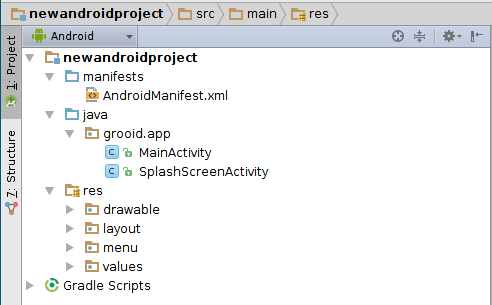
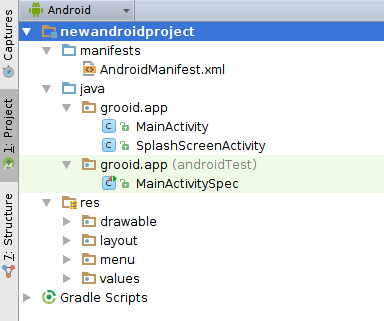
Added emerger plugin and Spock testing

Changed region(s): [[0.0, 0.0, 1.0, 1.0]]

diff --git a/index.html b/index.html
@@ -25,11 +25,12 @@
 <li><a href="#_introduction">1. Introduction</a></li>
 <li><a href="#_install_grooid_templates">2. Install Grooid Templates</a></li>
 <li><a href="#_create_your_first_project">3. Create your first project</a></li>
-<li><a href="#_technologies_included">4. Technologies included</a></li>
-<li><a href="#_android_studio_versions">5. Android Studio versions</a>
+<li><a href="#_create_a_library_module">4. Create a library module</a></li>
+<li><a href="#_technologies_included">5. Technologies included</a></li>
+<li><a href="#_android_studio_versions">6. Android Studio versions</a>
 <ul class="sectlevel2">
-<li><a href="#_android_studio_0_8_x">5.1. Android Studio 0.8.x</a></li>
-<li><a href="#_android_studio_1_x">5.2. Android Studio 1.x</a></li>
+<li><a href="#_android_studio_0_8_x">6.1. Android Studio 0.8.x</a></li>
+<li><a href="#_android_studio_1_x">6.2. Android Studio 1.x</a></li>
 </ul>
 </li>
 </ul>
@@ -103,7 +104,8 @@ with:</p>
 <pre class="prettyprint highlight"><code class="language-shell" data-lang="shell">$ lazybones list
 Available templates in marioggar/grooid-templates:
 
-marioggar/grooid-new-project</code></pre>
+marioggar/grooid-new-project
+marioggar/grooid-new-library</code></pre>
 </div>
 </div>
 <div class="paragraph">
@@ -113,18 +115,22 @@ marioggar/grooid-new-project</code></pre>
 <div class="content">
 <pre class="prettyprint highlight"><code class="language-shell" data-lang="shell">$ lazybones create grooid-new-project newandroidproject
 
-Creating project from template grooid-new-project (latest) in 'newandroidproject'
-Define value for default package [grooid.app]:
-Which is the minimum version of sdk you want to target ? [19]:
-Which is the main version of SDK you are targeting ? [21]:
-Which version of Android Build Tools do you want to use ? [20.0.0]:
+Creating project from template grooid-new-project 1.1.4 in 'newandroidproject'
+DEFAULT source code package ? [grooid.app]:
+MIN version of SDK you want to target ? [19]:
+MAX version of SDK you want to target ? [21]:
+DEFAULT version for Android Build Tools ? [22.0.1]:
+DEFAULT version for Android support v4 ? [21.0.0]:
 
 What is newandroidproject
 --------------------------------------
 
 You've just created a basic Android-Groovy application. It provides a standard project structure and
 a basic Gradle plugin. Now is up to you to add your source files and edit them with Android Studio
-and have fun :)</code></pre>
+and have fun :)
+
+
+Project created in newandroidproject!</code></pre>
 </div>
 </div>
 <div class="admonitionblock warning">
@@ -173,24 +179,78 @@ build the project.</p>
 </div>
 </div>
 <div class="sect1">
-<h2 id="_technologies_included">4. Technologies included</h2>
+<h2 id="_create_a_library_module">4. Create a library module</h2>
 <div class="sectionbody">
 <div class="paragraph">
-<p>The project you&#8217;ve just created has some useful technologies in order not to
-start from nothing.</p>
+<p>If you want to create an Android library then you should use the
+<code>create-new-library</code> template:</p>
+</div>
+<div class="listingblock">
+<div class="content">
+<pre class="prettyprint highlight"><code class="language-shell" data-lang="shell">$ lazybones create grooid-new-library newandroidproject
+
+Creating project from template grooid-new-project 1.1.4 in 'newandroidproject'
+DEFAULT source code package ? [grooid.app]:
+MIN version of SDK you want to target ? [19]:
+MAX version of SDK you want to target ? [21]:
+DEFAULT version for Android Build Tools ? [22.0.1]:
+DEFAULT version for Android support v4 ? [21.0.0]:
+...</code></pre>
+</div>
+</div>
+<div class="paragraph">
+<p>Then follow the same instructions than in previous chaper to import
+your project to Android Studio.</p>
+</div>
+</div>
+</div>
+<div class="sect1">
+<h2 id="_technologies_included">5. Technologies included</h2>
+<div class="sectionbody">
+<div class="paragraph">
+<p>The project you&#8217;ve just created has some useful dependencies in order not to
+start from scratch.</p>
 </div>
 <div class="ulist">
 <ul>
 <li>
-<p><strong>Swissknife</strong> (<a href="https://github.com/Arasthel/SwissKnife" class="bare">https://github.com/Arasthel/SwissKnife</a>) : A multi-purpose library containing view injection and threading for Android using annotations</p>
-</li>
-<li>
-<p><strong>Retrofit</strong> (<a href="http://square.github.io/retrofit/" class="bare">http://square.github.io/retrofit/</a>) : A type-safe REST client for Android and Java</p>
-</li>
-<li>
-<p><strong>Picasso</strong> (<a href="http://square.github.io/picasso/" class="bare">http://square.github.io/picasso/</a>) : A powerful image downloading and caching library for Android</p>
+<p><code>Swissknife</code> (<a href="https://github.com/Arasthel/SwissKnife" class="bare">https://github.com/Arasthel/SwissKnife</a>)</p>
 </li>
 </ul>
+</div>
+<div class="paragraph">
+<p>A multi-purpose library containing view injection and threading handling for Android using Groovy AST transformations,
+extensions and DSLs</p>
+</div>
+<div class="ulist">
+<ul>
+<li>
+<p><code>Retrofit</code> (<a href="http://square.github.io/retrofit/" class="bare">http://square.github.io/retrofit/</a>)</p>
+</li>
+</ul>
+</div>
+<div class="paragraph">
+<p>An easy REST client for Android and Java</p>
+</div>
+<div class="ulist">
+<ul>
+<li>
+<p><code>Picasso</code> (<a href="http://square.github.io/picasso/" class="bare">http://square.github.io/picasso/</a>)</p>
+</li>
+</ul>
+</div>
+<div class="paragraph">
+<p>A powerful image downloading and caching library for Android</p>
+</div>
+<div class="ulist">
+<ul>
+<li>
+<p><code>Android-Spock</code> (<a href="https://github.com/pieces029/android-spock" class="bare">https://github.com/pieces029/android-spock</a>)</p>
+</li>
+</ul>
+</div>
+<div class="paragraph">
+<p>Use Spock (<a href="https://github.com/spockframework" class="bare">https://github.com/spockframework</a>) tests in your Android app.</p>
 </div>
 <div class="paragraph">
 <p><a id="astudio"></a></p>
@@ -198,14 +258,14 @@ start from nothing.</p>
 </div>
 </div>
 <div class="sect1">
-<h2 id="_android_studio_versions">5. Android Studio versions</h2>
+<h2 id="_android_studio_versions">6. Android Studio versions</h2>
 <div class="sectionbody">
 <div class="paragraph">
 <p>This section explains how to import your Gradle projects created with grooid-templates to
 Android Studio.</p>
 </div>
 <div class="sect2">
-<h3 id="_android_studio_0_8_x">5.1. Android Studio 0.8.x</h3>
+<h3 id="_android_studio_0_8_x">6.1. Android Studio 0.8.x</h3>
 <div class="admonitionblock note">
 <table>
 <tr>
@@ -237,7 +297,7 @@ still using previous versions it&#8217;s recommended to migrate asap.
 </div>
 </div>
 <div class="sect2">
-<h3 id="_android_studio_1_x">5.2. Android Studio 1.x</h3>
+<h3 id="_android_studio_1_x">6.2. Android Studio 1.x</h3>
 <div class="admonitionblock note">
 <table>
 <tr>
@@ -285,7 +345,7 @@ build the project.</p>
 </div>
 <div id="footer">
 <div id="footer-text">
-Last updated 2014-12-13 23:49:46 +00:00
+Last updated 2015-02-01 19:48:20 CET
 </div>
 </div>
 </body>

diff --git a/02_project.html b/02_project.html
@@ -420,6 +420,7 @@ body.book #toc,body.book #preamble,body.book h1.sect0,body.book .sect1>h2{page-b
 <div id="toctitle">Table of Contents</div>
 <ul class="sectlevel1">
 <li><a href="#_create_your_first_project">Create your first project</a></li>
+<li><a href="#_create_a_library_module">Create a library module</a></li>
 </ul>
 </div>
 </div>
@@ -436,7 +437,8 @@ with:</p>
 <pre class="prettyprint highlight"><code class="language-shell" data-lang="shell">$ lazybones list
 Available templates in marioggar/grooid-templates:
 
-marioggar/grooid-new-project</code></pre>
+marioggar/grooid-new-project
+marioggar/grooid-new-library</code></pre>
 </div>
 </div>
 <div class="paragraph">
@@ -446,18 +448,22 @@ marioggar/grooid-new-project</code></pre>
 <div class="content">
 <pre class="prettyprint highlight"><code class="language-shell" data-lang="shell">$ lazybones create grooid-new-project newandroidproject
 
-Creating project from template grooid-new-project (latest) in 'newandroidproject'
-Define value for default package [grooid.app]:
-Which is the minimum version of sdk you want to target ? [19]:
-Which is the main version of SDK you are targeting ? [21]:
-Which version of Android Build Tools do you want to use ? [20.0.0]:
+Creating project from template grooid-new-project 1.1.4 in 'newandroidproject'
+DEFAULT source code package ? [grooid.app]:
+MIN version of SDK you want to target ? [19]:
+MAX version of SDK you want to target ? [21]:
+DEFAULT version for Android Build Tools ? [22.0.1]:
+DEFAULT version for Android support v4 ? [21.0.0]:
 
 What is newandroidproject
 --------------------------------------
 
 You've just created a basic Android-Groovy application. It provides a standard project structure and
 a basic Gradle plugin. Now is up to you to add your source files and edit them with Android Studio
-and have fun :)</code></pre>
+and have fun :)
+
+
+Project created in newandroidproject!</code></pre>
 </div>
 </div>
 <div class="admonitionblock warning">
@@ -505,10 +511,36 @@ build the project.</p>
 </div>
 </div>
 </div>
+<div class="sect1">
+<h2 id="_create_a_library_module">Create a library module</h2>
+<div class="sectionbody">
+<div class="paragraph">
+<p>If you want to create an Android library then you should use the
+<code>create-new-library</code> template:</p>
+</div>
+<div class="listingblock">
+<div class="content">
+<pre class="prettyprint highlight"><code class="language-shell" data-lang="shell">$ lazybones create grooid-new-library newandroidproject
+
+Creating project from template grooid-new-project 1.1.4 in 'newandroidproject'
+DEFAULT source code package ? [grooid.app]:
+MIN version of SDK you want to target ? [19]:
+MAX version of SDK you want to target ? [21]:
+DEFAULT version for Android Build Tools ? [22.0.1]:
+DEFAULT version for Android support v4 ? [21.0.0]:
+...</code></pre>
+</div>
+</div>
+<div class="paragraph">
+<p>Then follow the same instructions than in previous chaper to import
+your project to Android Studio.</p>
+</div>
+</div>
+</div>
 </div>
 <div id="footer">
 <div id="footer-text">
-Last updated 2014-12-14 00:00:26 +00:00
+Last updated 2015-07-17 09:10:39 CEST
 </div>
 </div>
 </body>

diff --git a/03_technologies.html b/03_technologies.html
@@ -428,28 +428,56 @@ body.book #toc,body.book #preamble,body.book h1.sect0,body.book .sect1>h2{page-b
 <h2 id="_technologies_included">Technologies included</h2>
 <div class="sectionbody">
 <div class="paragraph">
-<p>The project you&#8217;ve just created has some useful technologies in order not to
-start from nothing.</p>
+<p>The project you&#8217;ve just created has some useful dependencies in order not to
+start from scratch.</p>
 </div>
 <div class="ulist">
 <ul>
 <li>
-<p><strong>Swissknife</strong> (<a href="https://github.com/Arasthel/SwissKnife" class="bare">https://github.com/Arasthel/SwissKnife</a>) : A multi-purpose library containing view injection and threading for Android using annotations</p>
-</li>
-<li>
-<p><strong>Retrofit</strong> (<a href="http://square.github.io/retrofit/" class="bare">http://square.github.io/retrofit/</a>) : A type-safe REST client for Android and Java</p>
-</li>
-<li>
-<p><strong>Picasso</strong> (<a href="http://square.github.io/picasso/" class="bare">http://square.github.io/picasso/</a>) : A powerful image downloading and caching library for Android</p>
+<p><code>Swissknife</code> (<a href="https://github.com/Arasthel/SwissKnife" class="bare">https://github.com/Arasthel/SwissKnife</a>)</p>
 </li>
 </ul>
+</div>
+<div class="paragraph">
+<p>A multi-purpose library containing view injection and threading handling for Android using Groovy AST transformations,
+extensions and DSLs</p>
+</div>
+<div class="ulist">
+<ul>
+<li>
+<p><code>Retrofit</code> (<a href="http://square.github.io/retrofit/" class="bare">http://square.github.io/retrofit/</a>)</p>
+</li>
+</ul>
+</div>
+<div class="paragraph">
+<p>An easy REST client for Android and Java</p>
+</div>
+<div class="ulist">
+<ul>
+<li>
+<p><code>Picasso</code> (<a href="http://square.github.io/picasso/" class="bare">http://square.github.io/picasso/</a>)</p>
+</li>
+</ul>
+</div>
+<div class="paragraph">
+<p>A powerful image downloading and caching library for Android</p>
+</div>
+<div class="ulist">
+<ul>
+<li>
+<p><code>Android-Spock</code> (<a href="https://github.com/pieces029/android-spock" class="bare">https://github.com/pieces029/android-spock</a>)</p>
+</li>
+</ul>
+</div>
+<div class="paragraph">
+<p>Use Spock (<a href="https://github.com/spockframework" class="bare">https://github.com/spockframework</a>) tests in your Android app.</p>
 </div>
 </div>
 </div>
 </div>
 <div id="footer">
 <div id="footer-text">
-Last updated 2014-12-11 15:06:17 +00:00
+Last updated 2015-07-17 09:10:39 CEST
 </div>
 </div>
 </body>

diff --git a/01_install.html b/01_install.html
@@ -459,7 +459,7 @@ body.book #toc,body.book #preamble,body.book h1.sect0,body.book .sect1>h2{page-b
 </div>
 <div id="footer">
 <div id="footer-text">
-Last updated 2014-12-12 01:02:34 +00:00
+Last updated 2015-02-01 19:48:20 CET
 </div>
 </div>
 </body>

diff --git a/00_intro.html b/00_intro.html
@@ -436,7 +436,7 @@ using predefined templates.</p>
 </div>
 <div id="footer">
 <div id="footer-text">
-Last updated 2014-12-13 20:07:51 +00:00
+Last updated 2015-02-01 19:48:20 CET
 </div>
 </div>
 </body>

diff --git a/04_astudio.html b/04_astudio.html
@@ -520,7 +520,7 @@ build the project.</p>
 </div>
 <div id="footer">
 <div id="footer-text">
-Last updated 2014-12-13 23:49:46 +00:00
+Last updated 2015-02-01 19:48:20 CET
 </div>
 </div>
 </body>
